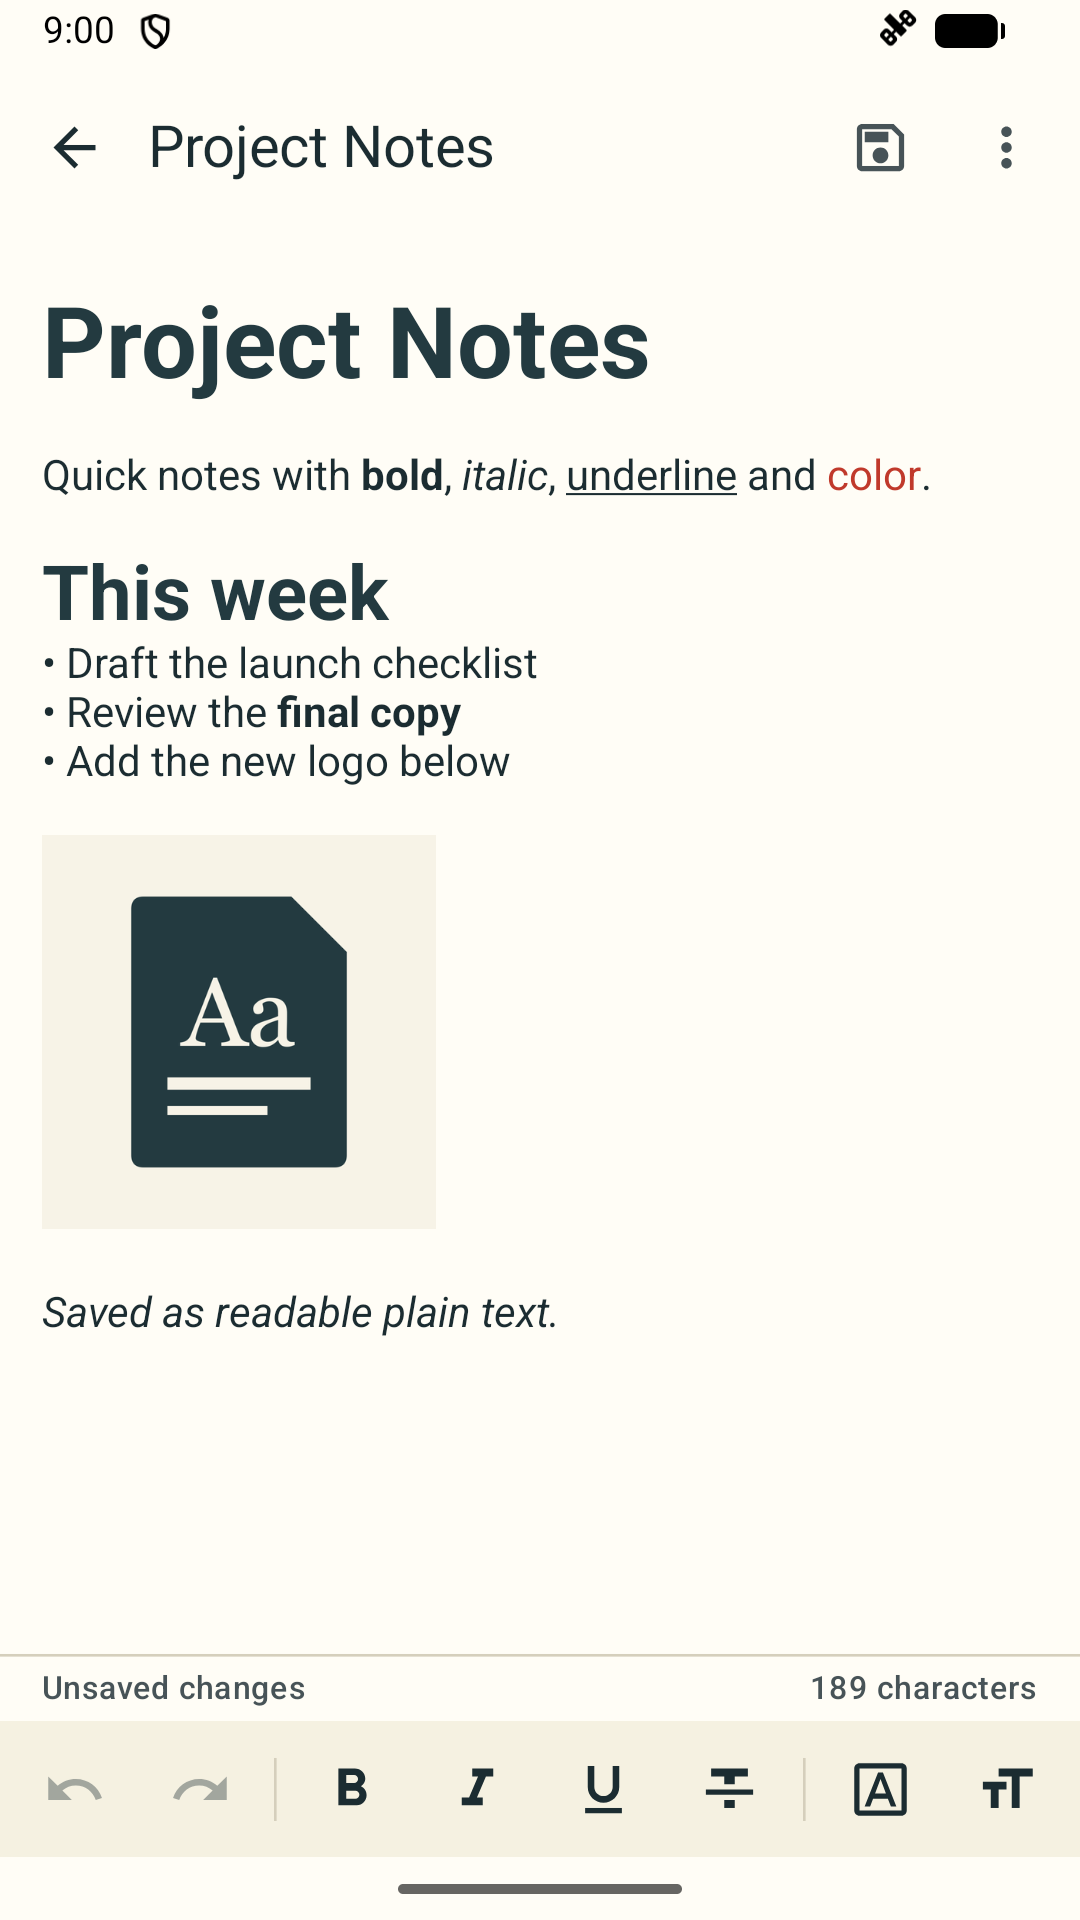
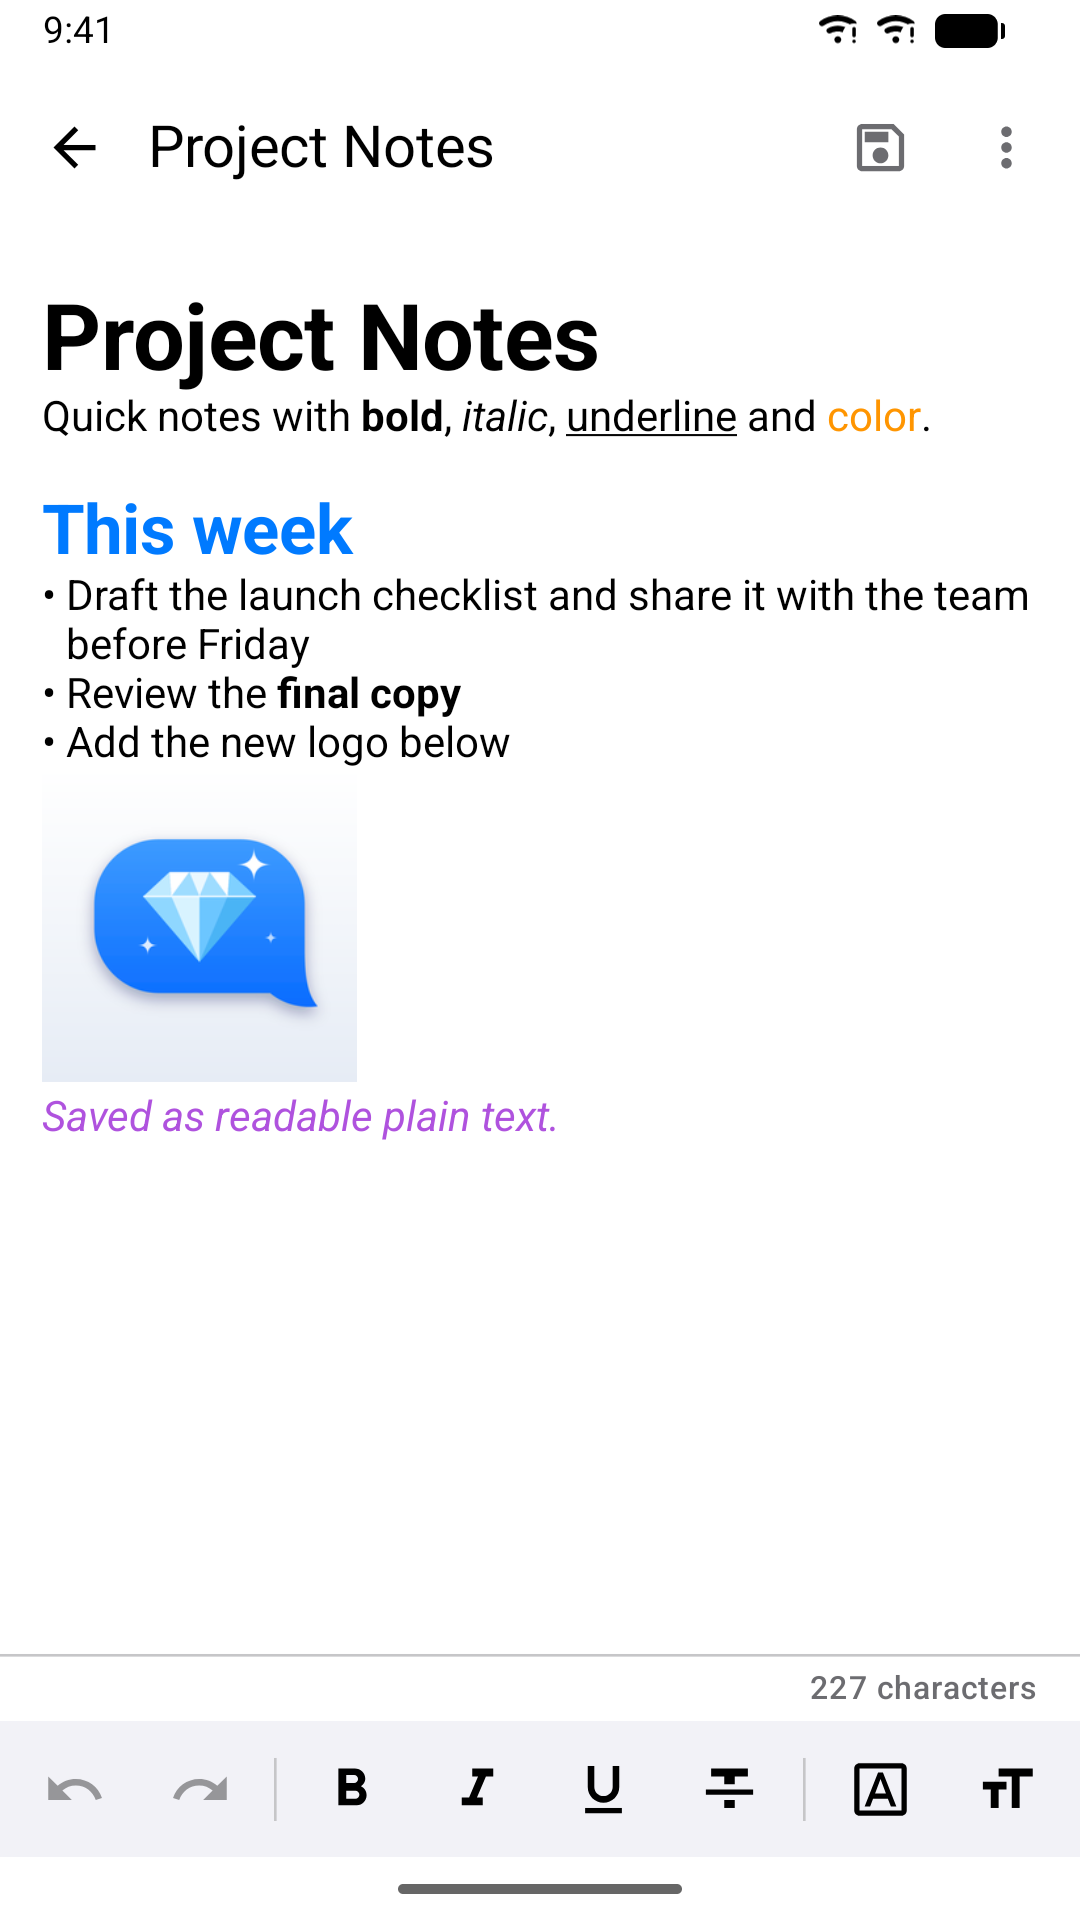
Publish selected files

diff --git a/docs/USER_MANUAL.md b/docs/USER_MANUAL.md
@@ -1,10 +1,10 @@
 ---
-last_updated: 2026-11-23
-version: 6.0.0
+last_updated: 2026-11-25
+version: 6.1.0
 product_versions:
   windows: "0.1.0"
   ios: "1.1.0"
-  android: "1.0.2"
+  android: "1.0.3"
 generated_from: "dev-docs/specs/USER_MANUAL_SPEC.instructions.md"
 ---
 
@@ -383,8 +383,8 @@ already in a document is kept when you save.
    | Submenu or button | Choices on Windows | Choices on Android |
    | --- | --- | --- |
    | **Font** | **Automatic**, followed by the font families available on your computer. | **Automatic**, **Sans serif (Arial)**, **Serif (Times New Roman)**, **Monospace (Courier New)**. |
-   | **Font Size** | **Automatic**, **10 pt**, **11 pt**, **12 pt**, **14 pt**, **18 pt**. | The same, plus **24 pt** and **36 pt**. |
-   | **Text Color** | **Automatic**, **Black**, **Red**, **Green**, **Blue**. | The same. |
+   | **Font Size** | **Automatic**, **10 pt**, **11 pt**, **12 pt**, **14 pt**, **18 pt**. | **Automatic**, **10 pt**, **11 pt**, **12 pt**, **14 pt**, **16 pt**, **18 pt**, **20 pt**, **24 pt**, **28 pt**, **32 pt**, **36 pt**, **48 pt**. |
+   | **Text Color** | **Automatic**, **Black**, **Red**, **Green**, **Blue**. | The same, plus **Orange** and **Purple**. |
    | **Background Color** | **Automatic**, **Yellow**, **Green**, **Blue**. | The same. |
 
 1. Review the selection. To reset that particular attribute, choose
@@ -438,6 +438,12 @@ Lists are ordinary text prefixes. Automatic continuation recognizes `•`, `·`,
 the beginning of the line. Continuing a numbered item increases its number by
 one. Renumbering later lines after edits is not automatic.
 <!-- Verified from: platform/windows/plain_rtf/gui/views/text_buffer.py [_BULLET_RE, _NUMBER_RE, handle_return_in_list] -->
+
+On Android, the wrapped lines of a list item are indented to line up with the
+text after its marker. A marker followed by a tab, as iOS writes it, gets the
+same indent, and those lines are not shown as a table. The indent comes from
+the editor and is not saved in the file.
+<!-- Verified from: platform/android/app/src/main/kotlin/com/plaintxtoffice/plainrtf/ui/editor/RichEditText.kt [listIndents, refreshListIndents, refreshTabStops]; platform/android/app/src/main/kotlin/com/plaintxtoffice/plainrtf/domain/editing/TextCommands.kt [listParagraphs]; platform/android/app/src/main/kotlin/com/plaintxtoffice/plainrtf/domain/editing/TableBlocks.kt [tableBlocks] -->
 
 On iOS, the list commands start each line with `•` or a number and a period,
 followed by a tab, and indent the wrapped text. Pressing **Return** does not
@@ -534,9 +540,15 @@ the first readable image is inserted. A successful image paste reports
 <!-- Verified from: platform/windows/plain_rtf/gui/views/root_window.py [_build_editor, _handle_paste]; platform/windows/plain_rtf/gui/views/images.py [look_clipboard_image_bytes] -->
 
 On Android, paste from the menu that appears when you tap or select in the
-text area. A pasted image is inserted in the document, and pasted text arrives
-as plain text without its original formatting.
-<!-- Verified from: platform/android/app/src/main/kotlin/com/plaintxtoffice/plainrtf/ui/editor/RichEditText.kt [receiveContent, onTextContextMenuItem] -->
+text area, or press **Ctrl+V** on a hardware keyboard. A pasted image is
+inserted in the document. Text copied in Plain RTF pastes with its formatting
+and images. Text copied from another app keeps the formatting the document
+format can hold: fonts, sizes, text and background colors, bold, italic,
+underline, and strikethrough. Links and other formatting are dropped, and so
+is a white background from a web page. **Paste as plain text** pastes without
+formatting, and text dropped from another app or inserted by the keyboard
+arrives as plain text.
+<!-- Verified from: platform/android/app/src/main/kotlin/com/plaintxtoffice/plainrtf/ui/editor/RichEditText.kt [receiveContent, onTextContextMenuItem, paste, insertContent]; platform/android/app/src/main/kotlin/com/plaintxtoffice/plainrtf/ui/editor/PastedText.kt [pastedText, styleOf] -->
 
 On iOS, paste from the menu that appears when you tap or select in the text
 area. A pasted image is inserted in the document and saved as PNG unless it is
@@ -589,7 +601,7 @@ then **Help** in the editor. One screen holds **About Plain RTF**,
 **Keyboard shortcuts**. Tap **Back** to return. The **Privacy** icon on the
 Home screen shows the app's privacy policy, and its
 **Contact Plain Text Office** button opens the contact page on our website.
-<!-- Verified from: platform/android/app/src/main/kotlin/com/plaintxtoffice/plainrtf/ui/home/HomeScreen.kt [HomeScreen]; platform/android/app/src/main/kotlin/com/plaintxtoffice/plainrtf/ui/editor/EditorScreen.kt [OverflowMenu]; platform/android/app/src/main/kotlin/com/plaintxtoffice/plainrtf/ui/info/InfoScreens.kt [HELP_SECTIONS, HelpScreen, PrivacyScreen, CONTACT_URL]; platform/android/app/src/main/res/values/strings.xml -->
+<!-- Verified from: platform/android/app/src/main/kotlin/com/plaintxtoffice/plainrtf/ui/home/HomeScreen.kt [HomeScreen]; platform/android/app/src/main/kotlin/com/plaintxtoffice/plainrtf/ui/editor/EditorScreen.kt [OverflowMenu]; platform/android/app/src/main/kotlin/com/plaintxtoffice/plainrtf/ui/info/InfoScreens.kt [HELP_SECTIONS, HelpScreen, PrivacyScreen]; platform/android/app/src/main/kotlin/com/plaintxtoffice/plainrtf/ui/info/Feedback.kt [CONTACT_FORM_URL, openContactForm]; platform/android/app/src/main/res/values/strings.xml -->
 
 The iOS app has no help screen; use this manual. **Privacy** on the Home
 screen shows the app's privacy policy, and its **Contact Plain Text Office**
@@ -849,11 +861,11 @@ bytes are contained in the file, not referenced by a separate filename.
 | Pasting copied files inserts only one image. | Clipboard file paste selects the first readable image. | Drop multiple files onto the editor to insert several images. |
 | A list keeps adding markers when you press **Enter**. | The current line is a recognized list item. | Press **Enter** on an empty list item, or toggle the matching list command to remove markers. |
 | A wide image appears smaller. | Image display is reduced to fit the text area. | This is expected; PNG and JPEG source bytes are preserved in the document. |
-| On Android, **Send feedback** reports that no email app is set up on this device. | Feedback is sent through your own email app. | Write to the address shown from any other device. |
+| On Android, **Send feedback** reports that no email app is set up on this device. | Feedback is sent through your own email app. | Tap **Open contact form** and write from the browser, or write to the address shown from any other device. |
 | On iOS, **Send Feedback** reports that no email app is set up on this device. | Feedback is sent through your own email app. | Tap **Open contact form** and write from the browser. |
 | On iOS, **Save Failed** says the document contains an attachment that is not an image. | Something other than an image, such as a file, was pasted into the document. | Delete that item and save again. Your unsaved changes stay in the recovery draft. |
 | On iOS, an alert reads **Open Failed** instead of **Open failed**. | iOS capitalizes the title; the messages are the same. | Use the **Open failed** rows in the first table. |
-<!-- Verified from: platform/windows/plain_rtf/gui/views/root_window.py [_save_document, _set_font_family, _set_font_size, _set_text_color, _set_background_color, _toggle_style, _insert_image, _handle_drop]; platform/windows/plain_rtf/gui/views/images.py [look_clipboard_image_bytes, insert_image_at]; platform/windows/plain_rtf/gui/views/text_buffer.py [handle_return_in_list]; platform/windows/plain_rtf/domains/documents/images.py [decode_image]; platform/android/app/src/main/kotlin/com/plaintxtoffice/plainrtf/ui/info/InfoScreens.kt [FeedbackScreen]; platform/android/app/src/main/res/values/strings.xml [feedback_no_email_app]; platform/ios/plain_rtf/Feedback.swift [FeedbackView]; platform/ios/plain_rtf/PlainTextRTFText.swift [image(from:attributes:)]; platform/ios/plain_rtf/HomeView.swift [HomeView]; platform/ios/plain_rtf/PlainTextRTF.swift [PlainTextRTFError] -->
+<!-- Verified from: platform/windows/plain_rtf/gui/views/root_window.py [_save_document, _set_font_family, _set_font_size, _set_text_color, _set_background_color, _toggle_style, _insert_image, _handle_drop]; platform/windows/plain_rtf/gui/views/images.py [look_clipboard_image_bytes, insert_image_at]; platform/windows/plain_rtf/gui/views/text_buffer.py [handle_return_in_list]; platform/windows/plain_rtf/domains/documents/images.py [decode_image]; platform/android/app/src/main/kotlin/com/plaintxtoffice/plainrtf/ui/info/InfoScreens.kt [FeedbackScreen]; platform/android/app/src/main/res/values/strings.xml [feedback_no_email_app, feedback_no_browser]; platform/ios/plain_rtf/Feedback.swift [FeedbackView]; platform/ios/plain_rtf/PlainTextRTFText.swift [image(from:attributes:)]; platform/ios/plain_rtf/HomeView.swift [HomeView]; platform/ios/plain_rtf/PlainTextRTF.swift [PlainTextRTFError] -->
 
 For file errors, use the dialog's message first. The Windows diagnostic log
 location is listed above, but open/save errors are shown in dialogs and are
@@ -952,11 +964,12 @@ adds a feedback dialog:
 1. Your email app opens a draft email to Plain Text Office that includes the
    app version, your Android version, and your device model. Review or change
    it, then send it.
+1. To use the website instead, tap **Open contact form**.
 
 The app sends nothing itself; the message goes only if you send it. If no
-email app is set up, the screen shows the address so that you can write from
-another device.
-<!-- Verified from: platform/android/app/src/main/kotlin/com/plaintxtoffice/plainrtf/ui/home/HomeScreen.kt [HomeScreen]; platform/android/app/src/main/kotlin/com/plaintxtoffice/plainrtf/ui/editor/EditorScreen.kt [OverflowMenu]; platform/android/app/src/main/kotlin/com/plaintxtoffice/plainrtf/ui/info/InfoScreens.kt [FeedbackScreen]; platform/android/app/src/main/kotlin/com/plaintxtoffice/plainrtf/ui/info/Feedback.kt [FEEDBACK_ADDRESS, draftFeedbackEmail, openFeedbackEmail]; platform/android/app/src/main/res/values/strings.xml [feedback_body, feedback_report_bug, feedback_request_feature, feedback_no_email_app] -->
+email app or browser is set up, the screen says so and shows the address so
+that you can write from another device.
+<!-- Verified from: platform/android/app/src/main/kotlin/com/plaintxtoffice/plainrtf/ui/home/HomeScreen.kt [HomeScreen]; platform/android/app/src/main/kotlin/com/plaintxtoffice/plainrtf/ui/editor/EditorScreen.kt [OverflowMenu]; platform/android/app/src/main/kotlin/com/plaintxtoffice/plainrtf/ui/info/InfoScreens.kt [FeedbackScreen]; platform/android/app/src/main/kotlin/com/plaintxtoffice/plainrtf/ui/info/Feedback.kt [FEEDBACK_ADDRESS, CONTACT_FORM_URL, draftFeedbackEmail, openFeedbackEmail, openContactForm]; platform/android/app/src/main/res/values/strings.xml [feedback_body, feedback_report_bug, feedback_request_feature, feedback_contact_form, feedback_no_email_app, feedback_no_browser] -->
 
 ### Send feedback on iOS
 

diff --git a/README.md b/README.md
@@ -78,7 +78,7 @@ Click a screenshot to view it full size.
 | Windows (portable) | [plain-rtf.exe](https://github.com/PlainTxtOffice/plain-rtf/releases/latest/download/plain-rtf.exe) | Runs without installation. |
 | Windows (installer) | [plain-rtf-setup.exe](https://github.com/PlainTxtOffice/plain-rtf/releases/latest/download/plain-rtf-setup.exe) | |
 | Android | [Google Play](https://play.google.com/store/apps/details?id=com.plaintxtoffice.plainrtf) | Requires Android 9 or later. |
-| iOS | [App Store](https://apps.apple.com/app/id6837573461) | Version 1.0. Requires an iPhone with iOS 26.4 or later. |
+| iOS | [App Store](https://apps.apple.com/app/id6837573461) | Requires an iPhone with iOS 26.4 or later. |
 
 The Windows builds are for x64 (64-bit) and do not need Python installed.
 
@@ -93,7 +93,8 @@ Send bug reports and feature requests to
 [feedback@plaintxtoffice.com](mailto:feedback@plaintxtoffice.com) or through the
 [contact page](https://plaintxtoffice.com/contact/). In the Android app, tap
 **Send feedback** on the Home screen or in the editor's menu. In the iOS app,
-tap **Send Feedback** at the top of the Home screen. The Windows app has no
+tap **Send Feedback** at the top of the Home screen (version 1.0.1 drafts to
+<support@plaintxtoffice.com>). The Windows app has no
 feedback command; use email or the contact page.
 
 ## License
